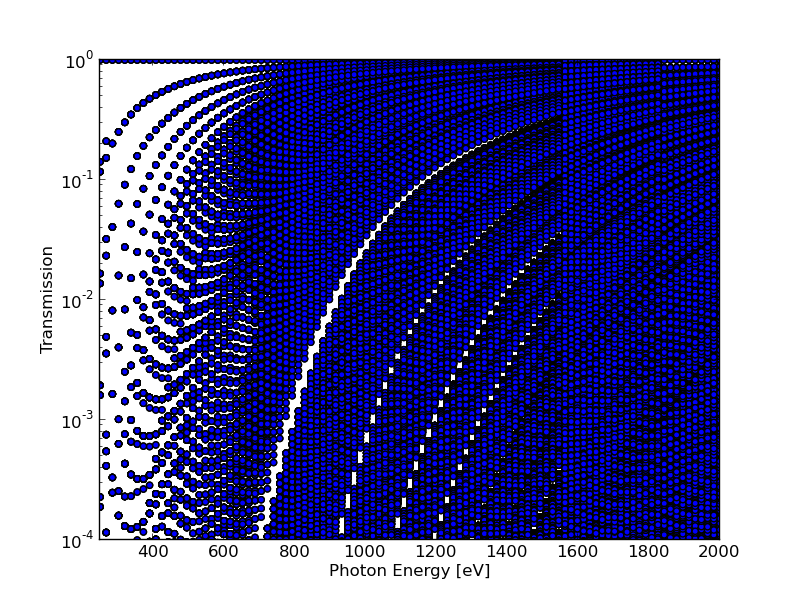
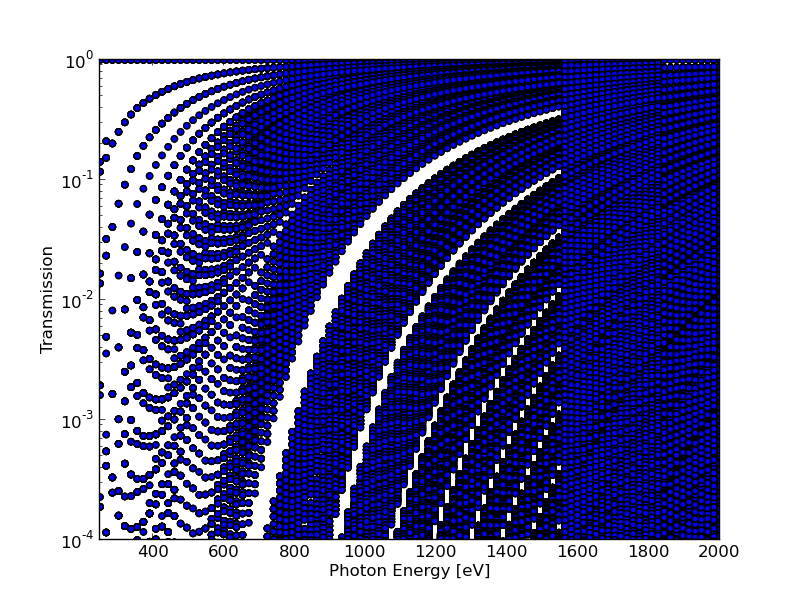
added plots

Changed region(s): [[0.1875, 0.09, 0.9062, 0.9]]

diff --git a/OATT/attenuation.py b/OATT/attenuation.py
@@ -21,7 +21,7 @@ from itertools import combinations
 import sys
 import re
 
-pathToAttenuatorFoils = '/home/just/Documents/PSI/OATT/materials/selection18Kirsten_2/'
+pathToAttenuatorFoils = '/home/just/Documents/PSI/OATT/materials/selection18Kirsten_2b/second_att/'
 duplicateFoils = False  # specify if the foils will be duplicated for redundancy and for more possible combinations
 nArms = 6   #Specifiy the ammount of arms to be equiped with foils 
 autoSave = True
